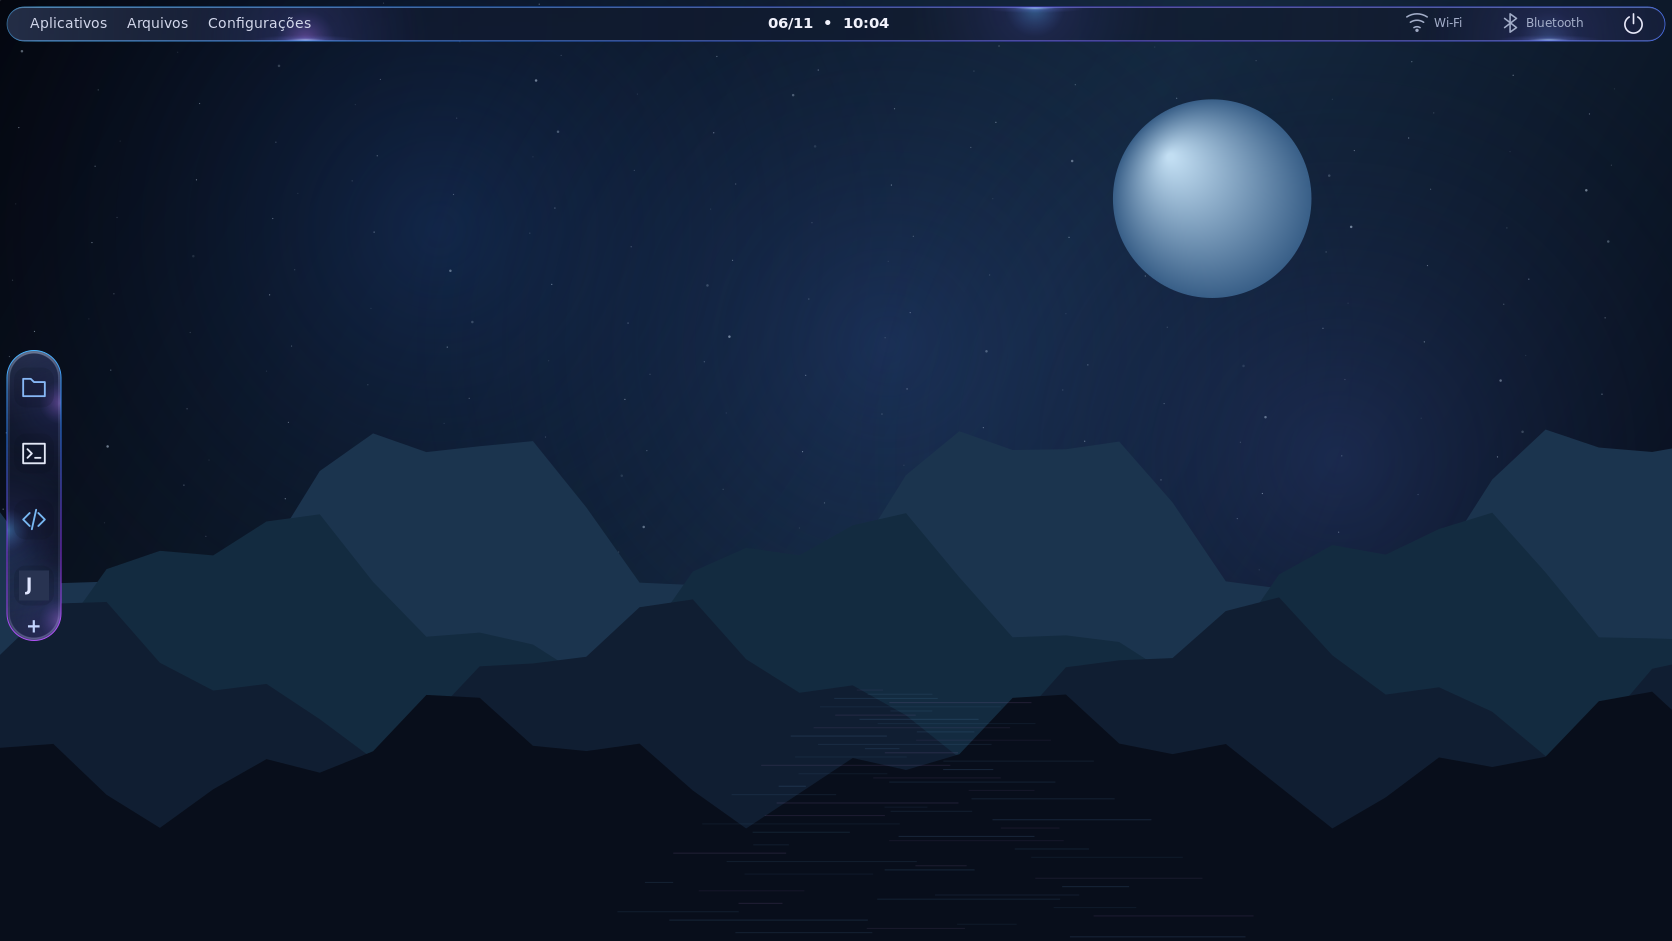
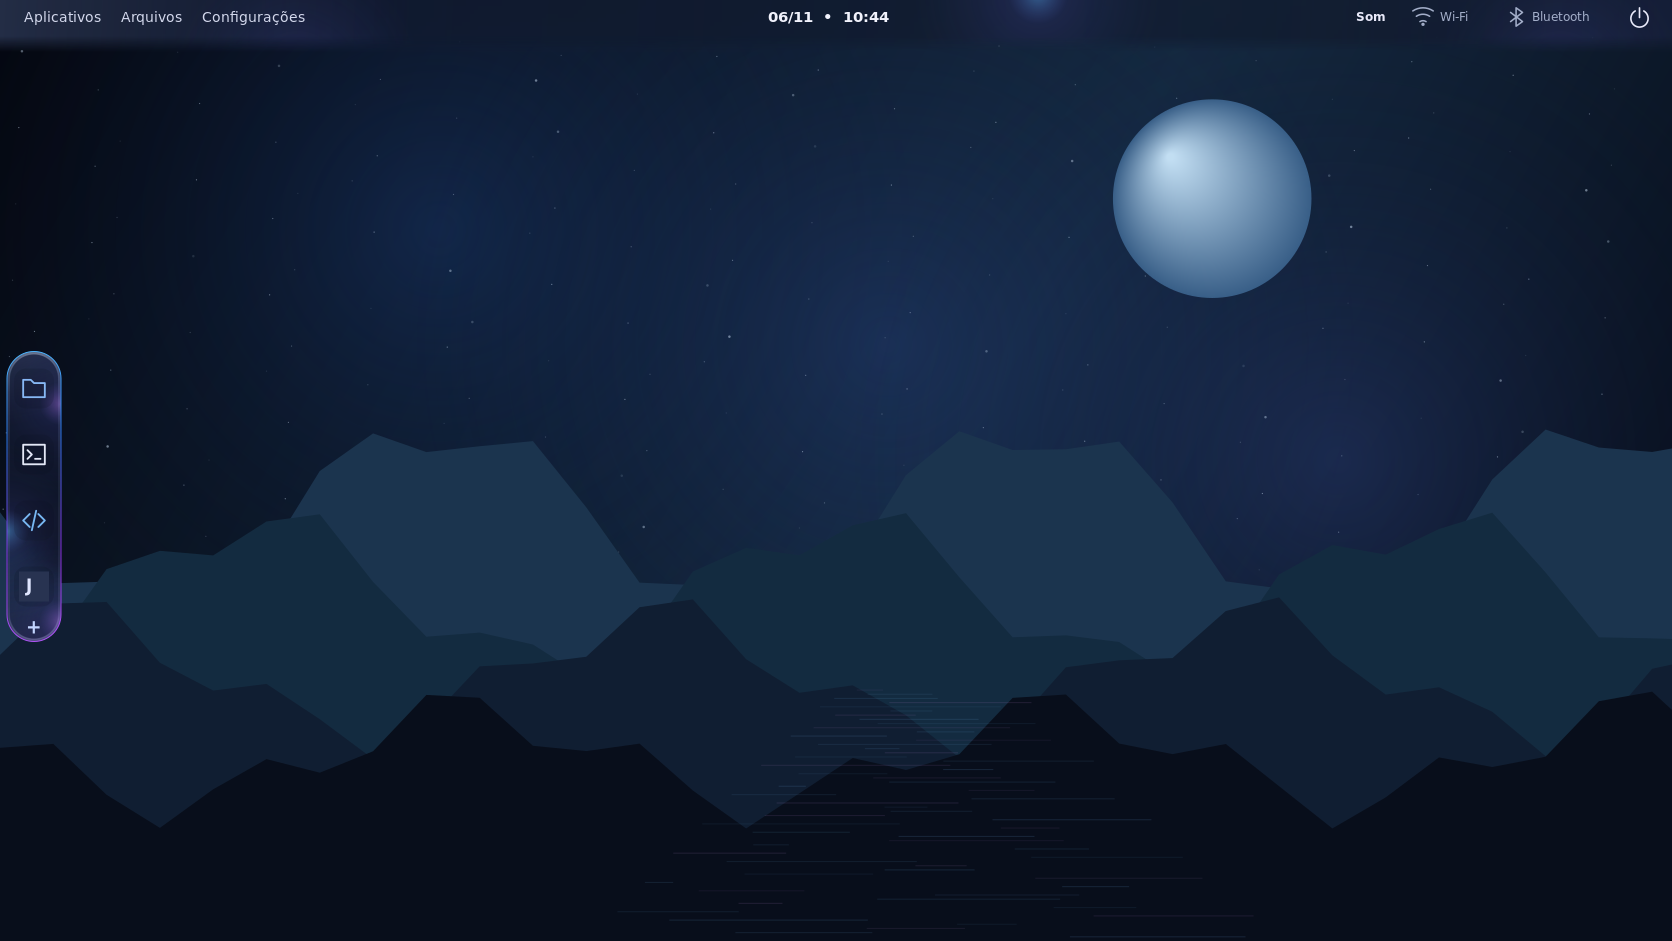
feat: fit glass panel flush to screen with a fading bottom

diff --git a/src/shell/main.c b/src/shell/main.c
@@ -25,7 +25,8 @@
 #include <wayland-cursor.h>
 #include "layer-shell-client.h"
 extern char **environ;
-enum { PANEL_HEIGHT = 36, PANEL_MARGIN = 6, PANEL_ZONE = 44,
+enum { PANEL_BODY_HEIGHT = 36, PANEL_FADE_HEIGHT = 16,
+    PANEL_HEIGHT = PANEL_BODY_HEIGHT + PANEL_FADE_HEIGHT, PANEL_MARGIN = 6, PANEL_ZONE = PANEL_HEIGHT,
     DOCK_WIDTH = 56, DOCK_SLOTS = 4, DOCK_HEIGHT = 28 + DOCK_SLOTS * 66, DOCK_MARGIN = 6, DOCK_ZONE = 64 };
 struct app;
 struct surface {
@@ -168,7 +169,7 @@ static void paint(struct surface *surface, cairo_t *cr) {
             cairo_close_path(cr); cairo_fill(cr);
         }
         jlinux_glass_paint(cr, (struct ui_rect){1, 1, width - 2, height - 2}, (width - 2) / 2.0,
-            surface->app->backdrop, DOCK_MARGIN, (surface->app->wallpaper.height - height + PANEL_ZONE + PANEL_MARGIN) / 2.0, surface->app->glass);
+            surface->app->backdrop, DOCK_MARGIN, (surface->app->wallpaper.height - height + PANEL_ZONE) / 2.0, surface->app->glass);
         const enum ui_icon icons[] = {UI_FOLDER, UI_TERMINAL, UI_CODE};
         const unsigned int colors[] = {0x87b8f5, 0xe3e8f6, 0x78b8f3};
         for (int i = 0; i < DOCK_SLOTS; i++) {
@@ -189,9 +190,9 @@ static void paint(struct surface *surface, cairo_t *cr) {
         }
         ui_text(cr, "+", 20, DOCK_HEIGHT - 27, 20, true, 0xc3d5ff);
     } else {
-        jlinux_glass_paint(cr, (struct ui_rect){1, 1, width - 2, height - 2}, (height - 2) / 2.0,
-            surface->app->backdrop, PANEL_MARGIN, PANEL_MARGIN, surface->app->glass);
-        cairo_save(cr); cairo_translate(cr, 0, (height - 54) / 2.0);
+        jlinux_glass_panel_paint(cr, width, PANEL_BODY_HEIGHT, PANEL_FADE_HEIGHT,
+            surface->app->backdrop, surface->app->glass);
+        cairo_save(cr); cairo_translate(cr, 0, (PANEL_BODY_HEIGHT - 54) / 2.0);
         if (width > 1000) { ui_text(cr, "Aplicativos     Arquivos     Configurações", 24, 18, 15, false, 0xd2d7eb); }
         time_t now = time(NULL); struct tm local;
         localtime_r(&now, &local);
@@ -297,6 +298,12 @@ static bool create_surface(struct app *app, struct surface *surface, const char 
     zwlr_layer_surface_v1_set_exclusive_zone(surface->layer, zone);
     zwlr_layer_surface_v1_set_margin(surface->layer, margin, margin, margin, margin);
     zwlr_layer_surface_v1_set_keyboard_interactivity(surface->layer, ZWLR_LAYER_SURFACE_V1_KEYBOARD_INTERACTIVITY_NONE);
+    if (surface == &app->panel && !app->power_panel && !app->volume_panel) {
+        struct wl_region *input = wl_compositor_create_region(app->compositor);
+        if (!input) { return false; }
+        wl_region_add(input, 0, 0, 8192, PANEL_BODY_HEIGHT);
+        wl_surface_set_input_region(surface->wl, input); wl_region_destroy(input);
+    }
     if (surface == &app->wallpaper) {
         struct wl_region *empty = wl_compositor_create_region(app->compositor);
         if (!empty) { return false; }
@@ -338,7 +345,7 @@ static void toggle_power(struct app *app) {
         ZWLR_LAYER_SURFACE_V1_ANCHOR_TOP | ZWLR_LAYER_SURFACE_V1_ANCHOR_RIGHT, 320, 260, -1, PANEL_MARGIN)) {
         close_power(app); notice(app, "Não foi possível abrir o menu de energia."); return;
     }
-    zwlr_layer_surface_v1_set_margin(app->power.layer, PANEL_MARGIN + PANEL_HEIGHT + 6, PANEL_MARGIN, 0, 0);
+    zwlr_layer_surface_v1_set_margin(app->power.layer, PANEL_MARGIN + PANEL_BODY_HEIGHT + 6, PANEL_MARGIN, 0, 0);
     wl_surface_commit(app->power.wl);
 }
 static void toggle_chooser(struct app *app) {
@@ -513,7 +520,7 @@ static void capabilities(void *data, struct wl_seat *seat, uint32_t capabilities
 static const struct wl_seat_listener seat_listener = {.capabilities = capabilities};
 static void position_live_dock(struct app *app) {
     if (!app->dock_panel || !app->dock.layer || app->output_height <= 0) { return; }
-    int top = (app->output_height / (app->output_scale > 0 ? app->output_scale : 1) - DOCK_HEIGHT + PANEL_ZONE + PANEL_MARGIN) / 2;
+    int top = (app->output_height / (app->output_scale > 0 ? app->output_scale : 1) - DOCK_HEIGHT + PANEL_ZONE) / 2;
     zwlr_layer_surface_v1_set_margin(app->dock.layer, top > 0 ? top : 0, 0, 0, DOCK_MARGIN);
     wl_surface_commit(app->dock.wl);
 }
@@ -549,14 +556,14 @@ static int preview(const char *path) {
     if (!jlinux_glass_settings(&app.glass)) { return 1; }
     dock_apps_init(&app.apps);
     app.wallpaper = (struct surface){.app = &app, .width = 1672, .height = 941};
-    app.panel = (struct surface){.app = &app, .width = 1672 - 2 * PANEL_MARGIN, .height = PANEL_HEIGHT};
+    app.panel = (struct surface){.app = &app, .width = 1672, .height = PANEL_HEIGHT};
     app.dock = (struct surface){.app = &app, .width = DOCK_WIDTH, .height = DOCK_HEIGHT, .hover = -1};
     cairo_surface_t *image = cairo_image_surface_create(CAIRO_FORMAT_ARGB32, 1672, 941);
     if (!prepare_backdrop(&app)) { cairo_surface_destroy(image); return 1; }
     cairo_t *cr = cairo_create(image); paint(&app.wallpaper, cr);
-    cairo_push_group(cr); cairo_translate(cr, PANEL_MARGIN, PANEL_MARGIN); paint(&app.panel, cr);
+    cairo_push_group(cr); paint(&app.panel, cr);
     cairo_pop_group_to_source(cr); cairo_paint(cr); cairo_identity_matrix(cr);
-    cairo_push_group(cr); cairo_translate(cr, DOCK_MARGIN, (941 - DOCK_HEIGHT + PANEL_ZONE + PANEL_MARGIN) / 2.0); paint(&app.dock, cr);
+    cairo_push_group(cr); cairo_translate(cr, DOCK_MARGIN, (941 - DOCK_HEIGHT + PANEL_ZONE) / 2.0); paint(&app.dock, cr);
     cairo_pop_group_to_source(cr); cairo_paint(cr);
     cairo_status_t status = cairo_surface_write_to_png(image, path);
     cairo_destroy(cr); cairo_surface_destroy(image);
@@ -606,7 +613,7 @@ int main(int argc, char **argv) {
     if (!power_panel && !dock_panel && !volume_panel && !create_surface(&app, &app.wallpaper, "jlinux-wallpaper", ZWLR_LAYER_SHELL_V1_LAYER_BACKGROUND, all, 0, 0, -1, 0)) { goto cleanup; }
     if (!dock_panel && !volume_panel && !create_surface(&app, &app.panel, power_panel ? "jlinux-power-button" : "jlinux-panel", power_panel ? ZWLR_LAYER_SHELL_V1_LAYER_OVERLAY : ZWLR_LAYER_SHELL_V1_LAYER_TOP,
         ZWLR_LAYER_SURFACE_V1_ANCHOR_TOP | ZWLR_LAYER_SURFACE_V1_ANCHOR_RIGHT |
-        (power_panel ? 0 : ZWLR_LAYER_SURFACE_V1_ANCHOR_LEFT), power_panel ? 44 : 0, PANEL_HEIGHT, power_panel ? -1 : PANEL_ZONE, PANEL_MARGIN)) { goto cleanup; }
+        (power_panel ? 0 : ZWLR_LAYER_SURFACE_V1_ANCHOR_LEFT), power_panel ? 44 : 0, power_panel ? PANEL_BODY_HEIGHT : PANEL_HEIGHT, power_panel ? -1 : PANEL_ZONE, power_panel ? PANEL_MARGIN : 0)) { goto cleanup; }
     if (!power_panel && !volume_panel && !create_surface(&app, &app.dock, "jlinux-dock", dock_panel ? ZWLR_LAYER_SHELL_V1_LAYER_OVERLAY : ZWLR_LAYER_SHELL_V1_LAYER_TOP,
         ZWLR_LAYER_SURFACE_V1_ANCHOR_LEFT | (dock_panel ? ZWLR_LAYER_SURFACE_V1_ANCHOR_TOP : 0), DOCK_WIDTH, DOCK_HEIGHT, dock_panel ? -1 : DOCK_ZONE, DOCK_MARGIN)) { goto cleanup; }
     if (dock_panel) {
@@ -614,7 +621,7 @@ int main(int argc, char **argv) {
     }
     if (volume_panel) {
         if (!create_surface(&app, &app.panel, "jlinux-volume-button", ZWLR_LAYER_SHELL_V1_LAYER_OVERLAY,
-            ZWLR_LAYER_SURFACE_V1_ANCHOR_TOP | ZWLR_LAYER_SURFACE_V1_ANCHOR_RIGHT, 54, PANEL_HEIGHT, -1, PANEL_MARGIN)) { goto cleanup; }
+            ZWLR_LAYER_SURFACE_V1_ANCHOR_TOP | ZWLR_LAYER_SURFACE_V1_ANCHOR_RIGHT, 54, PANEL_BODY_HEIGHT, -1, PANEL_MARGIN)) { goto cleanup; }
         zwlr_layer_surface_v1_set_margin(app.panel.layer, PANEL_MARGIN, 278, 0, 0);
         wl_surface_commit(app.panel.wl);
     }

diff --git a/tests/glass-panel.c b/tests/glass-panel.c
@@ -1,0 +1,37 @@
+#include "../src/effects/glass.h"
+#include <stdint.h>
+#include <stdio.h>
+#define CHECK(test) do { if (!(test)) { fprintf(stderr, "Falha: %s\n", #test); return 1; } } while (0)
+static unsigned alpha(cairo_surface_t *image, int x, int y) {
+    cairo_surface_flush(image);
+    uint32_t *row = (uint32_t *)(cairo_image_surface_get_data(image) + y * cairo_image_surface_get_stride(image));
+    return row[x] >> 24;
+}
+int main(void) {
+    cairo_surface_t *backdrop = cairo_image_surface_create(CAIRO_FORMAT_ARGB32, 80, 13);
+    cairo_t *background = cairo_create(backdrop);
+    cairo_set_source_rgb(background, .08, .12, .22); cairo_paint(background); cairo_destroy(background);
+    for (int tint = 0; tint < 2; tint++) {
+        for (int reflection = 0; reflection < 2; reflection++) {
+            cairo_surface_t *image = cairo_image_surface_create(CAIRO_FORMAT_ARGB32, 320, 52);
+            cairo_t *cr = cairo_create(image);
+            jlinux_glass_panel_paint(cr, 320, 36, 16, backdrop,
+                (struct jlinux_glass){.tint = tint, .reflection = reflection});
+            CHECK(cairo_status(cr) == CAIRO_STATUS_SUCCESS);
+            CHECK(alpha(image, 0, 0) == 255 && alpha(image, 319, 0) == 255);
+            CHECK(alpha(image, 0, 30) == 255 && alpha(image, 319, 30) == 255);
+            for (int x = 0; x < 320; x++) {
+                unsigned previous = alpha(image, x, 35);
+                for (int y = 36; y < 52; y++) {
+                    unsigned current = alpha(image, x, y);
+                    CHECK(current < previous && previous - current <= 17);
+                    previous = current;
+                }
+                CHECK(previous <= 8);
+            }
+            cairo_destroy(cr); cairo_surface_destroy(image);
+        }
+    }
+    cairo_surface_destroy(backdrop);
+    return 0;
+}

diff --git a/src/effects/glass.c b/src/effects/glass.c
@@ -30,6 +30,7 @@ void jlinux_glass_paint(cairo_t *cr, struct ui_rect rect, double radius,
         cairo_save(cr); cairo_scale(cr, 4, 4);
         cairo_set_source_surface(cr, backdrop, -origin_x / 4, -origin_y / 4);
         cairo_pattern_set_filter(cairo_get_source(cr), CAIRO_FILTER_BILINEAR);
+        cairo_pattern_set_extend(cairo_get_source(cr), CAIRO_EXTEND_PAD);
         cairo_paint(cr); cairo_restore(cr);
     }
     if (effects.tint) {
@@ -96,6 +97,22 @@ void jlinux_glass_paint(cairo_t *cr, struct ui_rect rect, double radius,
         }
         cairo_pattern_destroy(edge);
     }
+}
+
+void jlinux_glass_panel_paint(cairo_t *cr, double width, double body_height, double fade_height,
+        cairo_surface_t *backdrop, struct jlinux_glass effects) {
+    double height = body_height + fade_height;
+    cairo_save(cr); cairo_rectangle(cr, 0, 0, width, height); cairo_clip(cr);
+    cairo_push_group(cr);
+    /* Keep every material edge outside the panel; only the alpha ramp ends it. */
+    jlinux_glass_paint(cr, (struct ui_rect){-6, -6, width + 12, height + 32}, 0,
+        backdrop, 0, 0, effects);
+    cairo_pop_group_to_source(cr);
+    cairo_pattern_t *fade = cairo_pattern_create_linear(0, body_height, 0, height);
+    cairo_pattern_add_color_stop_rgba(fade, 0, 1, 1, 1, 1);
+    cairo_pattern_add_color_stop_rgba(fade, 1, 1, 1, 1, 0);
+    cairo_mask(cr, fade); cairo_pattern_destroy(fade);
+    cairo_restore(cr);
 }
 
 bool jlinux_glass_settings(struct jlinux_glass *effects) {

diff --git a/scripts/smoke-shell.py b/scripts/smoke-shell.py
@@ -75,7 +75,7 @@ def main():
                         wait_for(lambda: log().count("Janela maximizada:") > iteration,
                                  [server, client], "maximização com painel/dock")
                         sizes = re.findall(r"Janela maximizada: .* \((\d+)x(\d+) em (\d+),(\d+)\)", log())
-                        assert tuple(map(int, sizes[-1])) == (1204, 631, 73, 86), sizes[-1]
+                        assert tuple(map(int, sizes[-1])) == (1204, 629, 73, 88), sizes[-1]
 
                     stop(client)
                     assert client.returncode == 0, f"Shell encerrou com erro: {client.returncode}"

diff --git a/src/effects/glass.h b/src/effects/glass.h
@@ -2,6 +2,8 @@
 #define JLINUX_GLASS_H
 #include "../toolkit/painter.h"
 struct jlinux_glass { bool blur, tint, reflection, shadow; };
+void jlinux_glass_panel_paint(cairo_t *cr, double width, double body_height, double fade_height,
+    cairo_surface_t *backdrop, struct jlinux_glass effects);
 void jlinux_glass_window_shading(cairo_t *cr, struct ui_rect rect, double radius);
 void jlinux_glass_window_reflections(cairo_t *cr, struct ui_rect rect, double radius, double header);
 bool jlinux_glass_settings(struct jlinux_glass *effects);

diff --git a/TASKS.md b/TASKS.md
@@ -315,3 +315,9 @@ Dezenove testes release passaram nesta base. ASan/UBSan e empacotamento registra
 - **VISUAL-COLOR · implementado na branch:** aumentadas saturação/opacidade do reflexo azul/violeta e do halo interno já existente em `jlinux_glass_window_reflections`. Mesmas espessuras, passes e ativação independente por REFLECTION. Callers: molduras, barra de Arquivos e login; pintura do painel/dock preservada.
 - 21 testes locais release passaram, incluindo efeitos independentes e continuidade cromática das molduras; `git diff --check` passou. Prévias nativas de moldura/Arquivos inspecionadas antes/depois; prévia temporária de moldura a 1670×941 comparada à referência principal. Sem afirmar fidelidade completa, validação física ou ganho de desempenho. Não houve novo sanitizer/benchmark: apenas constantes de cor/opacidade mudaram.
 - Base temporária `feature/panel-volume` (PR #43), para preservar o tema escuro atual. Instalação observada `jlinux-desktop-git 0.5.0.r61.g841643c-1`; esta alteração não foi instalada. Sessão greetd preservada, sem VT, DRM, logout ou reinício.
+
+## Barra superior encaixada — feature/flush-top-panel
+
+- **PANEL-FLUSH · implementado na branch:** painel retangular, largura total, margem zero, sem borda inferior; 36 px de controles mais 16 px de degradê até transparência. Material Glass/cache do wallpaper e opções independentes preservados. A faixa de fade fica fora da região de entrada. Reserva de área útil de 52 px e centralização do dock coerentes entre execução e prévia.
+- Validação: 22 testes release e `git diff --check` passaram. Novo teste de pixels cobre cantos retos e opacidade estritamente decrescente em toda a largura nas combinações TINT/REFLECTION; smoke do shell confirma área útil atualizada. Prévias nativas inspecionadas a 1672×941; a nova forma substitui a cápsula das referências por pedido explícito do usuário. Não há afirmação de reprodução integral das fotos.
+- Os 22 testes também passaram com ASan/UBSan. CI remoto e avaliação física pendentes no registro. Sem benchmark, teste de VT/DRM, instalação ou reinício da sessão ativa. Base temporária `feature/window-color-accent`, PR #45, preservando o realce das janelas da entrega anterior.

diff --git a/docs/visual-style.md b/docs/visual-style.md
@@ -102,3 +102,11 @@ Nesta iteração, o cabeçalho ganha reflexo azul mais intenso no topo e violeta
 REFLECTION continua controlando esse realce independentemente de TINT, SHADOW e BLUR. São apenas valores de cor/opacidade: nenhum passe, buffer, timer ou animação adicional. Não é alteração das cores do conteúdo de aplicativos externos.
 
 Prévias nativas de moldura e Arquivos atualizadas e inspecionadas antes/depois. Uma prévia temporária de moldura também foi renderizada a 1670×941 para comparação com a primeira referência do usuário: contorno azul/violeta e fundo escuro preservados; materiais, composição e proporções da referência ainda não são reproduzidos integralmente. Não é captura da sessão ativa nem promessa de fidelidade exata.
+
+### Barra superior encaixada no topo
+
+O pedido mais recente substitui a cápsula flutuante da barra: largura total da saída, margem zero no topo/laterais e cantos retos. Os controles continuam em 36 px; uma faixa adicional de 16 px reduz progressivamente a opacidade do material até zero. O material é desenhado com seu contorno fora da área visível, sem linha inferior. O degradê mistura a base ao wallpaper mantendo o vidro azul-preto e reflexos estáticos.
+
+A superfície e a reserva de área útil passam a 52 px. Só os 36 px de controles recebem entrada; a faixa de transição não captura cliques. Dock permanece com sua forma e material, centralizado na área abaixo dessa nova reserva. Menus de energia/volume e botões transitórios mantêm suas posições anteriores.
+
+BLUR, TINT e REFLECTION continuam independentes. O fundo de vidro ainda amostra somente o wallpaper em cache, não janelas. A máscara usa um grupo Cairo temporário restrito à barra quando há redesenho; não adiciona timer ou animação. Não há medição de desempenho nesta mudança.

diff --git a/docs/visual-pipeline.md b/docs/visual-pipeline.md
@@ -65,3 +65,7 @@ Sombreamento interno das molduras: `JLINUX_GLASS_SHADOW=0/1` (padrão ligado) co
 ### Acabamento contínuo atual das janelas
 
 O pedido de borda neon discreta substitui os quatro pontos de brilho da moldura: gradiente azul/violeta, traço de 0,85 px e halo interno recortado de 2,8 px. A geometria segue 3 px nas laterais/inferior. REFLECTION controla esse acabamento; SHADOW permanece independente. Material de janela não chama os reflexos pontuais do dock/painel; esses componentes permanecem intactos. Renderização continua por eventos, em faixas estreitas, sem loop novo.
+
+### Barra superior retangular com base em degradê
+
+`jlinux_glass_panel_paint` reutiliza o material existente com os limites fora da área recortada, evitando contorno visível. Um grupo Cairo de 52 px de altura recebe máscara de opacidade: 36 px para conteúdo e 16 px de fade. É composição no redesenho do shell, não animação nem passe de blur novo. O cache do wallpaper continua compartilhado com o dock. A amostragem bilinear agora prolonga os pixels da borda do cache (`CAIRO_EXTEND_PAD`) para não criar transparência acidental no topo da saída.
